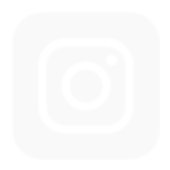
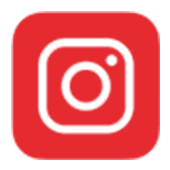
Dodati linkovi ka drustvenim mrezama i ka sajtu LC-a. Treba dodati jos i generalije svakog od CP-a!!!

diff --git a/index.html b/index.html
@@ -10,7 +10,14 @@
     <div id="potpis">
         <div id="levaSlika">
             <img src="Slike_i_ikonice/poptis_lc_nis.png" alt="eeStec LC Nis" id="glavnaSlika">
+            <div id="linkovi">
+                <a href="https://www.instagram.com/eestec_lc_nis/"><img src="Slike_i_ikonice/insta.png" alt="Instagram"></a>
+                <a href="https://rs.linkedin.com/company/eestec-lc-nis"><img src="Slike_i_ikonice/linkedin.png" alt="LinkedIn"></a>
+                <a href="https://www.facebook.com/eestec.nis/"><img src="Slike_i_ikonice/zucc.png" alt="Facebook"></a>
+                <a href="https://www.eestec.rs" id="eestecLink">eestec.rs</a>
+            </div>
         </div>
+        
     </div>
 </body>
 </html>

diff --git a/style.css b/style.css
@@ -2,6 +2,7 @@ body{
     background-color: black;
     margin: 0;
     padding: 0;
+    font-family: "Century gothic";
 }
 #potpis{
     margin: 0;
@@ -10,8 +11,27 @@ body{
     height: 80px;
     background-color: white;
     display: block;
+
 }
 #glavnaSlika{
     width: 60px;
     height: 80px;
+}
+#linkovi{
+    width: fit-content;
+    height: fit-content;
+    margin-top: -34px;
+    margin-left: 15.2px;
+}
+#linkovi img{
+    width: 7px;
+    height: 7px;
+}
+#eestecLink{
+    color: #e52a30;
+    font-size: 3px;
+    text-decoration: none;
+    display: block;
+    margin-left: 9px;
+    margin-top: -3px;
 }
